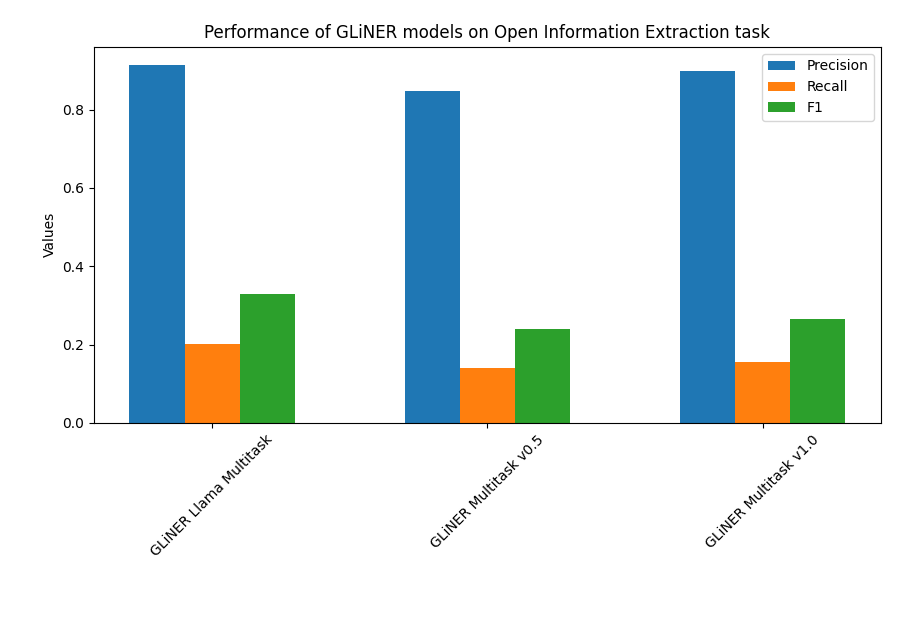
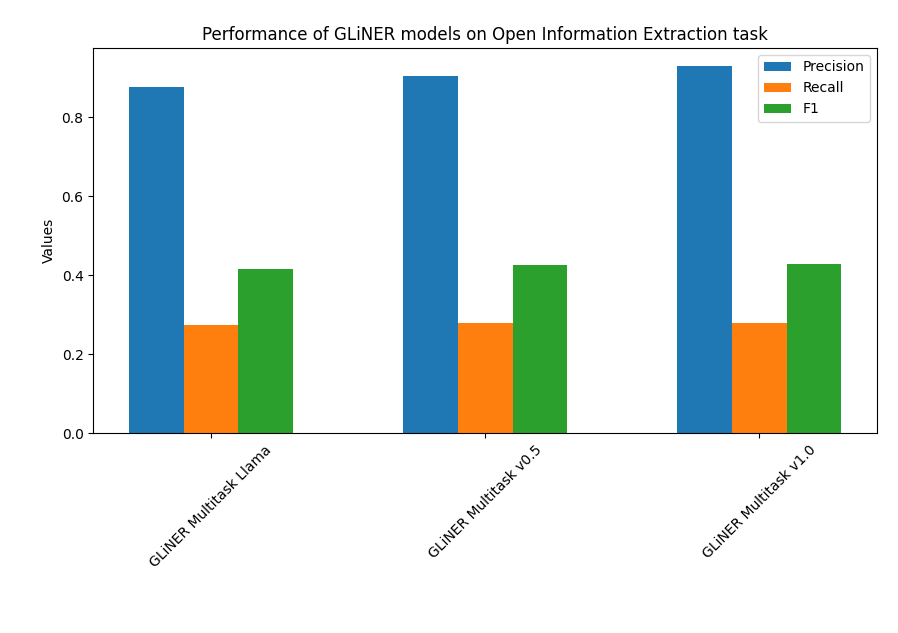
added fixes

diff --git a/classes/qa_class/qa_squad.py b/classes/qa_class/qa_squad.py
@@ -1,19 +1,24 @@
 import json
 from gliner import GLiNER
-import sys
+from tqdm import tqdm
+import argparse
+import collections
+import json
+import numpy as np
 import os
+import re
+import string
+import sys
 sys.path.append(os.path.abspath(os.path.join(os.path.dirname(__file__), '..')))
 from parent_class import AbstractEvaluator
-from tqdm import tqdm
 
 class QaGLiNEREvaluator(AbstractEvaluator):
 
     def evaluate(self, dataset, labels=None, *args, **kwargs):
 
-        context, questions, ans, impossibles = self.prepare_dataset(dataset)
-        predictions = self.__call__(context, questions)
-        preds = self.process_predictions(predictions)
-        return self.compute_f_score(preds, ans, impossibles)
+        context, questions, ans, impossibles, ids = self.prepare_dataset(dataset)
+        predictions = self.__call__(context, questions, ids)
+        return self.compute_f_score(predictions, dataset)
 
     def prepare_dataset(self, dataset, *args, **kwargs):
 
@@ -24,6 +29,7 @@ class QaGLiNEREvaluator(AbstractEvaluator):
         answers__ = []
         answers = []
         impossibles = []
+        ids = []
         for dicts in dataset:
           paragraphs = dicts.get('paragraphs')
           for p in paragraphs:
@@ -32,71 +38,165 @@ class QaGLiNEREvaluator(AbstractEvaluator):
             qas = p.get('qas')
             question = [d['question'] for d in qas if 'question' in d]
             answers_ = [k['answers'] for k in qas if 'answers' in k]
+            qid = [id['id'] for id in qas if 'id' in id]
             ans = [list({d['text'] for d in sublist}) for sublist in answers_]
             is_impossible = [m['is_impossible'] for m in qas if 'is_impossible' in m]
             impossibles.append(is_impossible)
             answers.append(ans)
             questions.append(question)
+            ids.append(qid)
 
-        return contexts, questions, answers, impossibles
+        return contexts, questions, answers, impossibles, ids
 
-    def __call__(self, contexts, questions, threshold=0.5):
+    def __call__(self, contexts, questions, ids, threshold=0.5):
 
-        grouped_preds = []
         labels = ['answer']
-        for context, question in tqdm(zip(contexts, questions), total=len(contexts), desc="Processing contexts"):
-            predictions = []
-            for q in question:
+        predictions = {}
+        for context, question, id in tqdm(zip(contexts, questions, ids), total=len(contexts), desc="Processing contexts"):
+            for q, i in zip(question, id):
               input_text = q + "\n" + context
               prediction = self.model.predict_entities(input_text, labels, threshold=0.5)
-              predictions.append(prediction)
+              if prediction:
+                  best_prediction = max(prediction, key=lambda x: x.get('score', 0))
+                  predictions[i] = best_prediction.get('text', "")
+              else:
+                  predictions[i] = ""
 
-            grouped_preds.append(predictions)
+        return predictions
 
-        return grouped_preds
+    def compute_f_score(self, preds, dataset):
 
-    def compute_f_score(self, predicts, true_labels, pos):
-        true_positive = 0
-        false_positive = 0
-        false_negative = 0
+        def make_qid_to_has_ans(dataset):
+          qid_to_has_ans = {}
+          for article in dataset:
+            for p in article['paragraphs']:
+              for qa in p['qas']:
+                qid_to_has_ans[qa['id']] = bool(qa['answers'])
+          return qid_to_has_ans
 
-        for predict, ans, posibl in zip(predicts, true_labels, pos):
-            for pred, ans_, pos_ in zip(predict, ans, posibl):
-                if pos_ == False:
-                    if pred:
-                        matched = any(p == a for p in pred for a in ans_)
-                        if matched:
-                            true_positive += 1
-                        else:
-                            false_positive += 1
-                    else:  # Если предсказание пустое, а ответ возможен
-                        false_negative += 1
-                elif pos_ == True:
-                    if pred == []:
-                        true_positive += 1
-                    else:
-                        false_positive += 1
+        def normalize_answer(s):
+          def remove_articles(text):
+            regex = re.compile(r'\b(a|an|the)\b', re.UNICODE)
+            return re.sub(regex, ' ', text)
+          def white_space_fix(text):
+            return ' '.join(text.split())
+          def remove_punc(text):
+            exclude = set(string.punctuation)
+            return ''.join(ch for ch in text if ch not in exclude)
+          def lower(text):
+            return text.lower()
+          return white_space_fix(remove_articles(remove_punc(lower(s))))
 
+        def get_tokens(s):
+          if not s: return []
+          return normalize_answer(s).split()
 
-        precision = true_positive / (true_positive + false_positive) if (true_positive + false_positive) > 0 else 0.0
-        recall = true_positive / (true_positive + false_negative) if (true_positive + false_negative) > 0 else 0.0
-        f1_score = 2 * precision * recall / (precision + recall) if (precision + recall) > 0 else 0.0
+        def compute_exact(a_gold, a_pred):
+          return int(normalize_answer(a_gold) == normalize_answer(a_pred))
 
-        return {
-            "precision": precision,
-            "recall": recall,
-            "f1_score": f1_score,
-        }
+        def compute_f1(a_gold, a_pred):
+          gold_toks = get_tokens(a_gold)
+          pred_toks = get_tokens(a_pred)
+          common = collections.Counter(gold_toks) & collections.Counter(pred_toks)
+          num_same = sum(common.values())
+          if len(gold_toks) == 0 or len(pred_toks) == 0:
+            return int(gold_toks == pred_toks)
+          if num_same == 0:
+            return 0
+          precision = 1.0 * num_same / len(pred_toks)
+          recall = 1.0 * num_same / len(gold_toks)
+          f1 = (2 * precision * recall) / (precision + recall)
+          return f1
+
+        def get_raw_scores(dataset, preds):
+          exact_scores = {}
+          f1_scores = {}
+          for article in dataset:
+            for p in article['paragraphs']:
+              for qa in p['qas']:
+                qid = qa['id']
+                gold_answers = [a['text'] for a in qa['answers']
+                                if normalize_answer(a['text'])]
+                if not gold_answers:
+                  gold_answers = ['']
+                if qid not in preds:
+                  print('Missing prediction for %s' % qid)
+                  continue
+                a_pred = preds[qid]
+                exact_scores[qid] = max(compute_exact(a, a_pred) for a in gold_answers)
+                f1_scores[qid] = max(compute_f1(a, a_pred) for a in gold_answers)
+          return exact_scores, f1_scores
+
+        def apply_no_ans_threshold(scores, na_probs, qid_to_has_ans, na_prob_thresh=0):
+          new_scores = {}
+          for qid, s in scores.items():
+            pred_na = na_probs[qid] > na_prob_thresh
+            if pred_na:
+              new_scores[qid] = float(not qid_to_has_ans[qid])
+            else:
+              new_scores[qid] = s
+          return new_scores
+
+        def make_eval_dict(exact_scores, f1_scores, qid_list=None):
+          if not qid_list:
+            total = len(exact_scores)
+            return collections.OrderedDict([
+                ('exact', 100.0 * sum(exact_scores.values()) / total),
+                ('f1', 100.0 * sum(f1_scores.values()) / total),
+                ('total', total),
+            ])
+          else:
+            total = len(qid_list)
+            return collections.OrderedDict([
+                ('exact', 100.0 * sum(exact_scores[k] for k in qid_list) / total),
+                ('f1', 100.0 * sum(f1_scores[k] for k in qid_list) / total),
+                ('total', total),
+            ])
+
+        def merge_eval(main_eval, new_eval, prefix):
+          for k in new_eval:
+            main_eval['%s_%s' % (prefix, k)] = new_eval[k]
+
+        def get_raw_scores(dataset, preds):
+          exact_scores = {}
+          f1_scores = {}
+          for article in dataset:
+            for p in article['paragraphs']:
+              for qa in p['qas']:
+                qid = qa['id']
+                gold_answers = [a['text'] for a in qa['answers']
+                                if normalize_answer(a['text'])]
+                if not gold_answers:
+                  gold_answers = ['']
+                if qid not in preds:
+                  print('Missing prediction for %s' % qid)
+                  continue
+                a_pred = preds[qid]
+                exact_scores[qid] = max(compute_exact(a, a_pred) for a in gold_answers)
+                f1_scores[qid] = max(compute_f1(a, a_pred) for a in gold_answers)
+          return exact_scores, f1_scores
+
+        na_probs = {k: 0.0 for k in preds}
+        qid_to_has_ans = make_qid_to_has_ans(dataset)
+        has_ans_qids = [k for k, v in qid_to_has_ans.items() if v]
+        no_ans_qids = [k for k, v in qid_to_has_ans.items() if not v]
+        exact_raw, f1_raw = get_raw_scores(dataset, preds)
+        out_eval = make_eval_dict(exact_raw, f1_raw)
+        has_ans_eval = make_eval_dict(exact_raw, f1_raw, qid_list=has_ans_qids)
+        merge_eval(out_eval, has_ans_eval, 'HasAns')
+        no_ans_eval = make_eval_dict(exact_raw, f1_raw, qid_list=no_ans_qids)
+        merge_eval(out_eval, no_ans_eval, 'NoAns')
+        return out_eval
 
 
 
     def process_predictions(self, predictions):
 
-        result = [[[item['text'] for item in inner_list if 'text' in item]
-        for inner_list in outer_list] for outer_list in predictions]
-
-        return result
+        result_list = [{"id": key, "prediction_text": value} for key, value in predictions.items()]
+        json_result = json.dumps(result_list, indent=2, ensure_ascii=False)
+        return json_result
 
 with open('data.json') as f:
     dataset_json = json.load(f)
     dataset = dataset_json['data']
+

diff --git a/classes/qa_class/make_graph.py b/classes/qa_class/make_graph.py
@@ -3,37 +3,35 @@ import json
 import os
 
 files = [
-    'classes/qa_class/GLiNER Llama Multitask.json',
+    'classes/qa_class/GLiNER Multitask Llama.json',
     'classes/qa_class/GLiNER Multitask v0.5.json',
     'classes/qa_class/GLiNER Multitask v1.0.json'
 ]
 
 metrics_data = {
-    'Precision': [],
-    'Recall': [],
-    'F1': []
+    'HasAns Exact': [],
+    'HasAns F1': []
 }
 
 for filename in files:
     with open(filename, 'r') as file:
         data = json.load(file)
 
-    metrics_data['Precision'].append(data['precision'])
-    metrics_data['Recall'].append(data['recall'])
-    metrics_data['F1'].append(data['f1_score'])
+    metrics_data['HasAns Exact'].append(data['HasAns_exact'])
+    metrics_data['HasAns F1'].append(data['HasAns_f1'])
 
 file_names = [os.path.splitext(os.path.basename(file))[0] for file in files]
 
 x = range(len(file_names))
 
-plt.bar(x, metrics_data['Precision'], width=0.2, label='Precision', align='center')
-plt.bar([i + 0.2 for i in x], metrics_data['Recall'], width=0.2, label='Recall', align='center')
-plt.bar([i + 0.4 for i in x], metrics_data['F1'], width=0.2, label='F1', align='center')
+plt.bar(x, metrics_data['HasAns Exact'], width=0.3, label='HasAns Exact', align='center')
+plt.bar([i + 0.3 for i in x], metrics_data['HasAns F1'], width=0.3, label='HasAns F1', align='center')
 
-plt.title('Performance of GLiNER models on QA task')
+plt.title('Performance of GLiNER Models (HasAns Metrics)')
 plt.ylabel('Values')
+plt.xlabel('Models')
 
-plt.xticks([i + 0.2 for i in x], file_names, rotation=45)
+plt.xticks([i + 0.15 for i in x], file_names, rotation=45)
 
 plt.legend()
 

diff --git a/classes/qa_class/make_tabel.py b/classes/qa_class/make_tabel.py
@@ -3,7 +3,7 @@ import os
 import pandas as pd
 
 files = [
-    'classes/qa_class/GLiNER Llama Multitask.json',
+    'classes/qa_class/GLiNER Multitask Llama.json',
     'classes/qa_class/GLiNER Multitask v0.5.json',
     'classes/qa_class/GLiNER Multitask v1.0.json'
 ]
@@ -14,15 +14,10 @@ for filename in files:
     with open(filename, 'r') as file:
         data = json.load(file)
 
-    precision = data['precision']
-    recall = data['recall']
-    f1_score = data['f1_score']
-
     metrics_data.append({
         'Model': os.path.splitext(os.path.basename(filename))[0],
-        'Precision': precision,
-        'Recall': recall,
-        'F1 Score': f1_score
+        'HasAns Exact': data['HasAns_exact'],
+        'HasAns F1': data['HasAns_f1']
     })
 
 df = pd.DataFrame(metrics_data)
@@ -32,4 +27,3 @@ markdown_table = df.to_markdown(index=False)
 output_path = 'classes/qa_class/qa.md'
 with open(output_path, 'w') as f:
     f.write(markdown_table)
-

diff --git a/classes/open_class/make_graph.py b/classes/open_class/make_graph.py
@@ -3,11 +3,10 @@ import json
 import os
 
 files = [
-    'classes/open_class/GLiNER Llama Multitask.json',
+    'classes/open_class/GLiNER Multitask Llama.json',
     'classes/open_class/GLiNER Multitask v0.5.json',
     'classes/open_class/GLiNER Multitask v1.0.json'
 ]
-
 metrics_data = {
     'Precision': [],
     'Recall': [],

diff --git a/classes/summarize_class/make_tabel.py b/classes/summarize_class/make_tabel.py
@@ -3,7 +3,7 @@ import pandas as pd
 import os
 
 files = [
-    'classes/summarize_class/GLiNER Llama Multitask.json',
+    'classes/summarize_class/GLiNER Multitask Llama.json',
     'classes/summarize_class/GLiNER Multitask v0.5.json',
     'classes/summarize_class/GLiNER Multitask v1.0.json'
 ]

diff --git a/classes/summarize_class/make_graph.py b/classes/summarize_class/make_graph.py
@@ -3,7 +3,7 @@ import json
 import os
 
 files = [
-    'classes/summarize_class/GLiNER Llama Multitask.json',
+    'classes/summarize_class/GLiNER Multitask Llama.json',
     'classes/summarize_class/GLiNER Multitask v0.5.json',
     'classes/summarize_class/GLiNER Multitask v1.0.json'
 ]

diff --git a/classes/open_class/make_tabel.py b/classes/open_class/make_tabel.py
@@ -3,7 +3,7 @@ import os
 import pandas as pd
 
 files = [
-    'classes/open_class/GLiNER Llama Multitask.json',
+    'classes/open_class/GLiNER Multitask Llama.json',
     'classes/open_class/GLiNER Multitask v0.5.json',
     'classes/open_class/GLiNER Multitask v1.0.json'
 ]

diff --git a/classes/summarize_class/sum.md b/classes/summarize_class/sum.md
@@ -1,5 +1,7 @@
 | Model                  |        BLEU |    ROUGE1 |     ROUGE2 |    ROUGEL |   Cosine Similarity |
 |:-----------------------|------------:|----------:|-----------:|----------:|--------------------:|
-| GLiNER Llama Multitask | 7.9728e-157 | 0.0955005 | 0.00236265 | 0.0738533 |           0.0515591 |
+| GLiNER Multitask Llama | 1.82507e-81 | 0.088228  | 0.00362057 | 0.0650065 |           0.0790828 |
 | GLiNER Multitask v0.5  | 1.70326e-06 | 0.0627964 | 0.00203505 | 0.0482932 |           0.0532316 |
-| GLiNER Multitask v1.0  | 5.78799e-06 | 0.0878883 | 0.0030312  | 0.0657152 |           0.060342  |
+| GLiNER Multitask v1.0  | 1.58254e-05 | 0.092619  | 0.00346194 | 0.0683692 |           0.0751279 |
+
+*Threshold = 0.3*

diff --git a/classes/qa_class/qa.md b/classes/qa_class/qa.md
@@ -1,5 +1,7 @@
-| Model                  |   Precision |   Recall |   F1 Score |
-|:-----------------------|------------:|---------:|-----------:|
-| GLiNER Llama Multitask |    0.578296 | 0.795821 |   0.669841 |
-| GLiNER Multitask v0.5  |    0.429213 | 0.94378  |   0.590072 |
-| GLiNER Multitask v1.0  |    0.601354 | 0.874784 |   0.712745 |
+| Model                  |   HasAns Exact |   HasAns F1 |
+|:-----------------------|---------------:|------------:|
+| GLiNER Multitask Llama |        64.8785 |     68.1977 |
+| GLiNER Multitask v0.5  |        75.4049 |     84.019  |
+| GLiNER Multitask v1.0  |        87.5    |     91.1458 |
+
+*Threshold = 0.5*

diff --git a/classes/open_class/oie.md b/classes/open_class/oie.md
@@ -1,5 +1,7 @@
 | Model                  |   Precision |   Recall |   F1 Score |
 |:-----------------------|------------:|---------:|-----------:|
-| GLiNER Llama Multitask |    0.914894 | 0.200466 |   0.328872 |
-| GLiNER Multitask v0.5  |    0.848485 | 0.140351 |   0.24086  |
-| GLiNER Multitask v1.0  |    0.9      | 0.155172 |   0.264706 |
+| GLiNER Multitask Llama |    0.877551 | 0.273305 |   0.416801 |
+| GLiNER Multitask v0.5  |    0.904762 | 0.279412 |   0.426966 |
+| GLiNER Multitask v1.0  |    0.929577 | 0.277895 |   0.427877 |
+
+*Threshold = 0.1*
